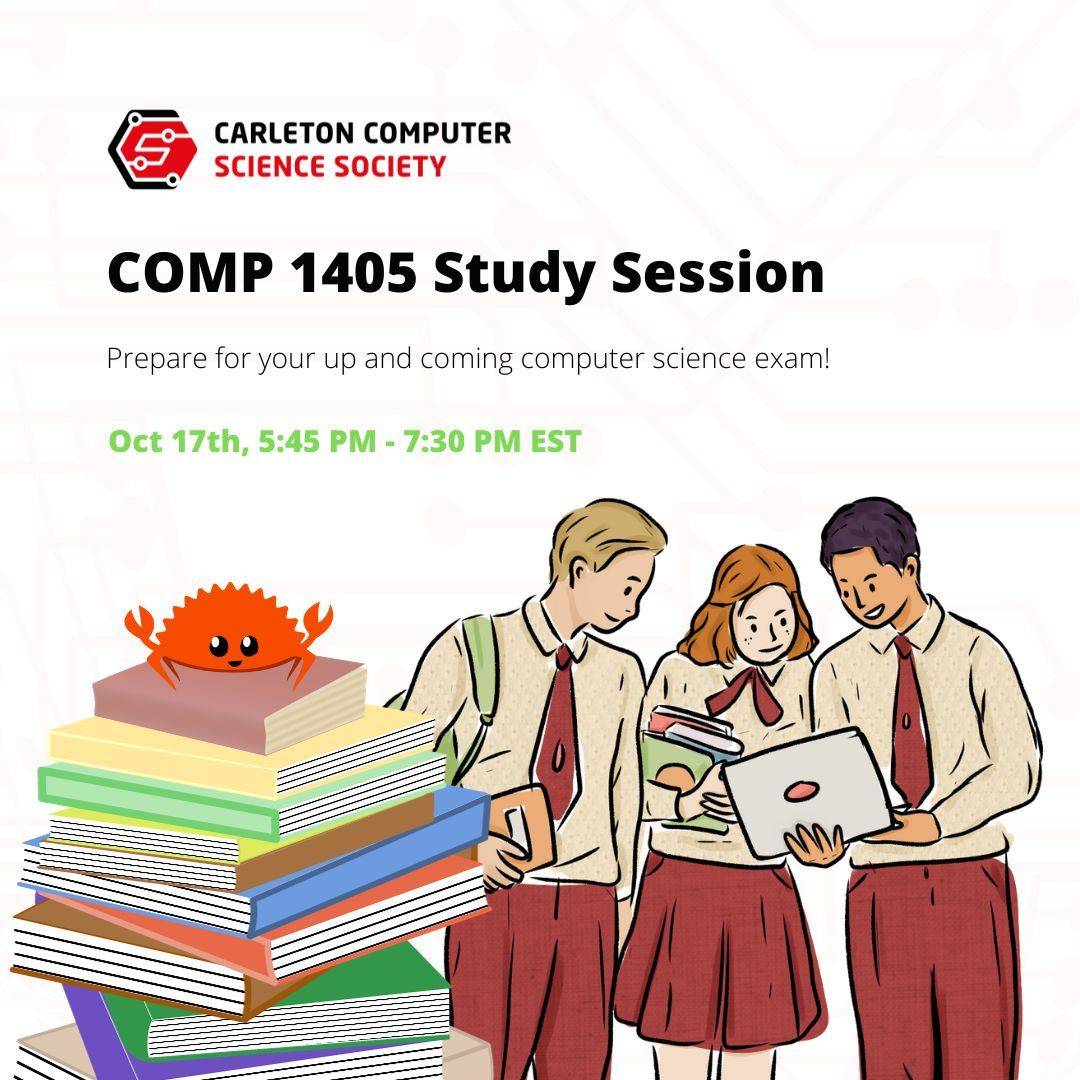
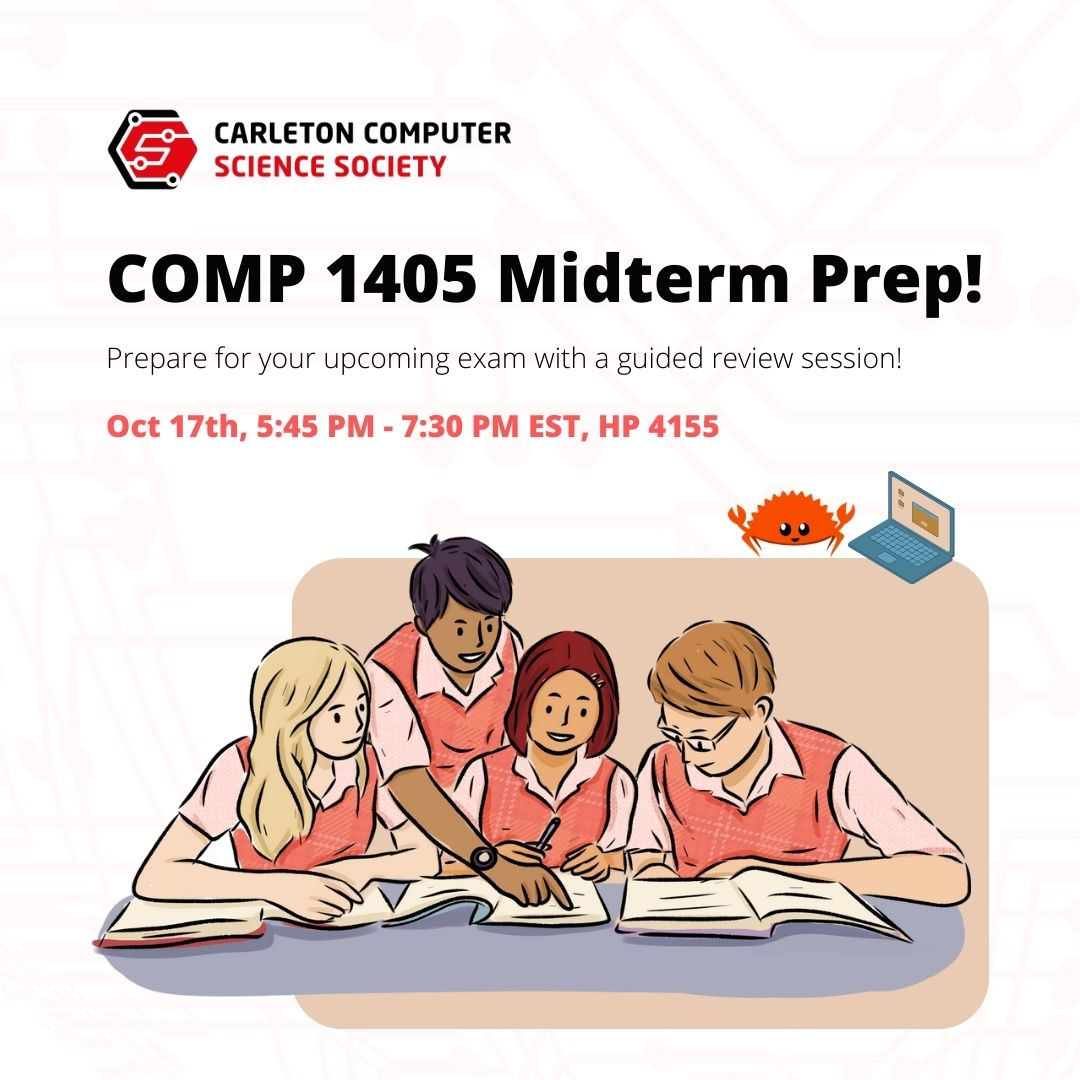
Update 1405 poster

diff --git a/content/events/2023-2024/2023-10-17-comp1405-study-session.md b/content/events/2023-2024/2023-10-17-comp1405-study-session.md
@@ -1,6 +1,6 @@
 ---
-display_title: "COMP 1405 Study Session"
-title: "COMP 1405 Study Session"
+display_title: "COMP 1405 Midterm Prep"
+title: "COMP 1405 Midterm Prep"
 date: 2023-10-17T00:00:00Z
 draft: false
 layout: event
